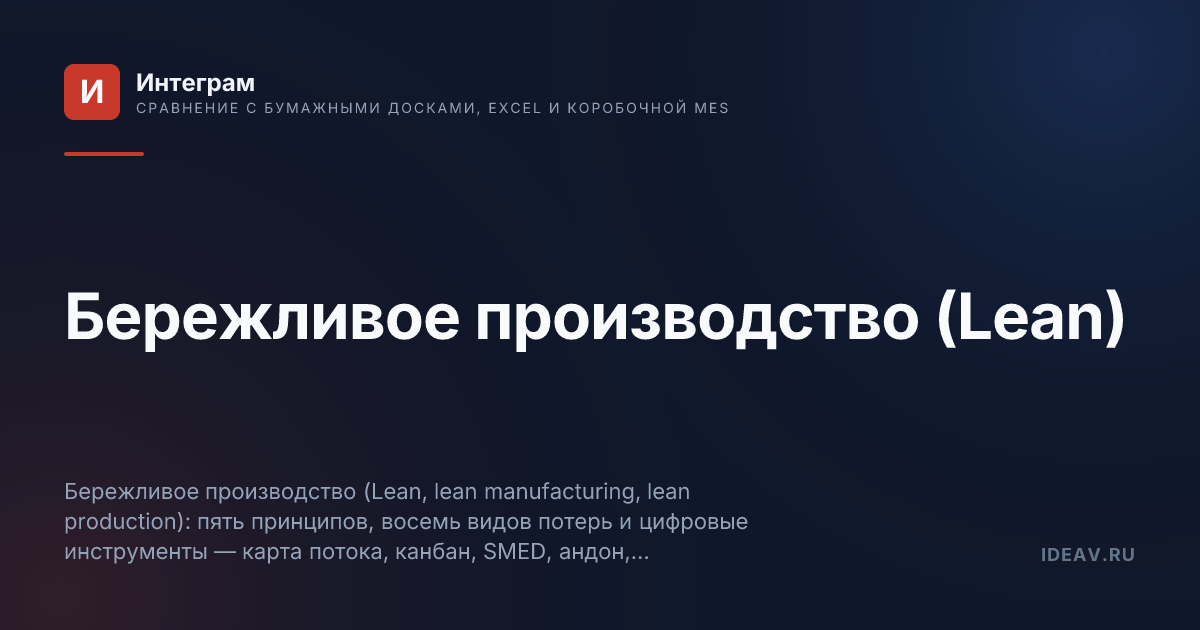
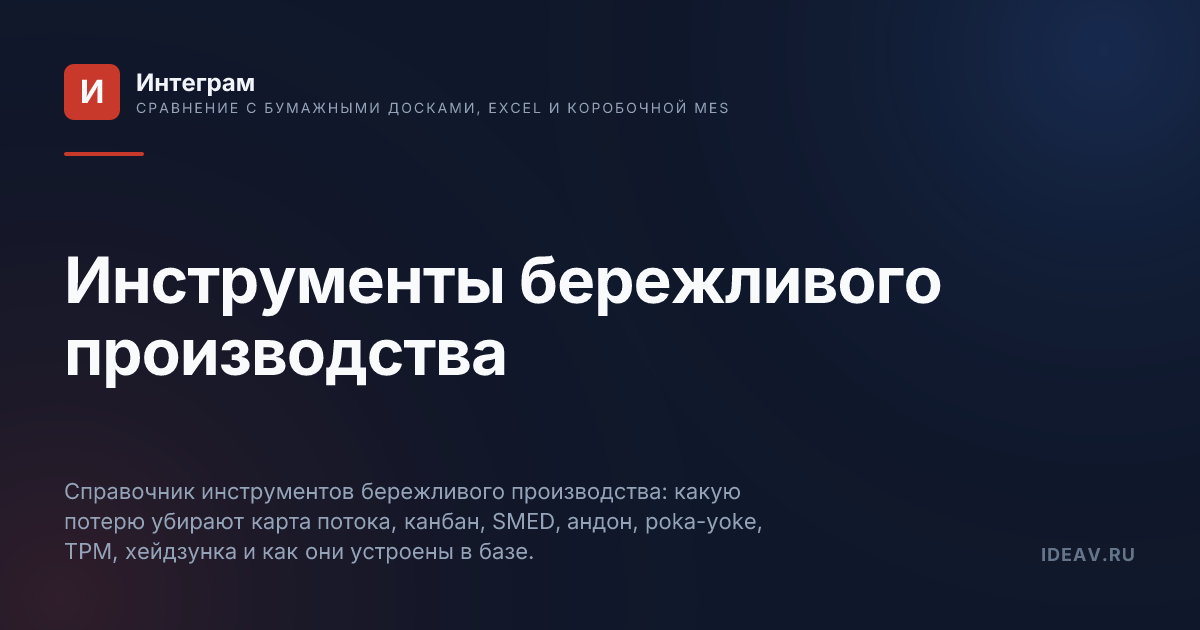
seo: развести пост Lean и КБ №35 — введение и кейсы против справочника (#901)

Changed region(s): [[0.0308, 0.3921, 0.9558, 0.6333], [0.0617, 0.754, 0.6475, 0.9048]]

diff --git a/src/data/knowledgeBase.ts b/src/data/knowledgeBase.ts
@@ -3954,21 +3954,21 @@ export const knowledgeBaseArticles: KnowledgeBaseArticle[] = [
     slug: '35-lean-manufacturing-tools',
     number: '35',
     publishedAt: '2026-11-07',
-    title: 'Бережливое производство: цифровые инструменты Lean под процесс цеха',
-    shortTitle: 'Бережливое производство (Lean)',
-    seoTitle: 'Бережливое производство (Lean): инструменты для цеха — Интеграм',
+    title: 'Инструменты бережливого производства: справочник «потеря → инструмент → как устроен»',
+    shortTitle: 'Инструменты бережливого производства',
+    seoTitle: 'Инструменты бережливого производства: справочник — Интеграм',
     seoDescription:
-      'Инструменты бережливого производства (Lean manufacturing) в цифровом виде: поток ценности, канбан, SMED, андон, защита от ошибок, TPM. Как собрать их под процесс цеха за недели, а не за год, и чем это отличается от Excel и коробочной MES.',
-    ogTitle: 'Бережливое производство: Lean-инструменты, собранные по Lean',
+      'Справочник инструментов бережливого производства: какую потерю убирают карта потока, канбан, SMED, андон, poka-yoke, TPM, хейдзунка и как они устроены в базе.',
+    ogTitle: 'Инструменты бережливого производства: справочник для цеха',
     ogDescription:
       'Пульты у станков, план с нормами переналадки, пробег оснастки и защита от ошибок — в одной базе. Разработка на порядок дешевле, время на планирование — в разы меньше.',
     compare: 'Бумажными досками, Excel и коробочной MES',
     metaDescription:
-      'Бережливое производство (Lean, lean manufacturing, lean production): пять принципов, восемь видов потерь и цифровые инструменты — карта потока, канбан, SMED, андон, poka-yoke, TPM, хейдзунка. Как Интеграм собирает их под процесс цеха без программирования: пульт оператора на планшете, план с нормами переналадки, пробег оснастки, обязательные поля. Разработка по Lean на порядок дешевле, план недели — за три минуты вместо двух-трёх дней. Ограничения подхода.',
+      'Справочник инструментов бережливого производства: какую потерю убирают карта потока, канбан, SMED, андон, poka-yoke, TPM, хейдзунка и как они устроены в базе.',
     metaKeywords:
-      'бережливое производство,lean,lean manufacturing,lean production,инструменты бережливого производства,виды потерь,smed переналадка,канбан производство,андон,poka-yoke,карта потока создания ценности,кайдзен,интеграм',
+      'инструменты бережливого производства,бережливое производство,lean,lean manufacturing,lean production,виды потерь,smed переналадка,канбан производство,андон,poka-yoke,карта потока создания ценности,кайдзен,интеграм',
     summary:
-      'Бережливое производство (Lean) убирает потери в потоке создания ценности: ожидание, перепроизводство, лишние запасы, дефекты. Его инструменты — карта потока, канбан, быстрая переналадка, андон, защита от ошибок — просты на бумаге, но в повседневной работе тонут в Excel или требуют дорогой MES. Статья разбирает, как собрать эти инструменты в одной базе под процесс конкретного цеха, почему мы строим их тоже по Lean — без лишнего кода и маленькими партиями — и где у такого подхода границы.',
+      'Справочник по инструментам бережливого производства: для каждого — какую потерю он убирает и как устроен в базе цеха. Что такое Lean, его принципы и примеры внедрения разобраны в статье блога «Бережливое производство (Lean) простыми словами» (ссылка в источниках). Инструменты Lean — карта потока, канбан, быстрая переналадка, андон, защита от ошибок — просты на бумаге, но в повседневной работе тонут в Excel или требуют дорогой MES. Здесь — как собрать эти инструменты в одной базе под процесс конкретного цеха, почему мы строим их тоже по Lean — без лишнего кода и маленькими партиями — и где у такого подхода границы.',
     context:
       'Бережливое производство выросло из производственной системы Toyota; термин «lean production» ввёл Джон Крафчик в 1988 году, пять принципов (ценность, поток создания ценности, непрерывный поток, вытягивание, совершенство) сформулировали Вумек и Джонс в книге Lean Thinking (1996). В России подход закреплён в ГОСТ Р 56020. Потери (муда) делят на восемь видов: перепроизводство, ожидание, транспортировка, лишняя обработка, запасы, лишние движения, дефекты и неиспользованный потенциал людей. Lean — это культура, а не программа, но инструментам нужны данные о потоке: без них карта потока рисуется по интервью, простой виден после смены, а нормы переналадки живут в голове мастера.',
     scenario: {
@@ -4049,9 +4049,9 @@ export const knowledgeBaseArticles: KnowledgeBaseArticle[] = [
       'Инструменты бережливого производства работают, когда у них есть данные о потоке и когда их можно менять так же быстро, как меняется цех. Excel не даёт первого, коробочная MES и заказная разработка — второго. Собранные в одной базе под процесс цеха, пульты, план с нормами переналадки, защита от ошибок и пробег оснастки дают и то и другое, а сама разработка идёт по Lean — без лишнего кода и маленькими партиями. Начинать стоит с одного потока и одного станка, а дальше улучшать по циклу.',
     faq: [
       {
-        question: 'Что такое бережливое производство простыми словами?',
+        question: 'Какой инструмент Lean убирает какую потерю?',
         answer:
-          'Это подход, при котором компания постоянно ищет и убирает всё, что не добавляет ценности для заказчика: ожидание, лишние запасы, перепроизводство, брак, лишние движения. Он вырос из производственной системы Toyota, по-английски называется Lean или lean manufacturing.',
+          'Карта потока создания ценности — ожидание и лишние шаги; канбан и вытягивание — перепроизводство и запасы; SMED — простой на переналадке; андон — ожидание и дефекты; защита от ошибок (poka-yoke) — дефекты и переделки; TPM — поломки и брак; хейдзунка — перегрузку и простой.',
       },
       {
         question: 'Какие инструменты бережливого производства самые полезные в цифровом виде?',
@@ -4076,9 +4076,9 @@ export const knowledgeBaseArticles: KnowledgeBaseArticle[] = [
     ],
     sources: [
       {
-        title: 'Бережливое производство (Lean): инструменты для цеха, собранные по Lean',
+        title: 'Бережливое производство (Lean) простыми словами: принципы, потери и примеры внедрения в цехе',
         url: 'https://ideav.ru/blog/posts/berezhlivoe-proizvodstvo-lean-instrumenty/',
-        note: 'Статья блога: принципы, виды потерь, кейсы цехов.',
+        note: 'Введение в Lean для тех, кто только начинает: пять принципов, восемь видов потерь и что дало внедрение трём цехам.',
       },
       {
         title: 'Кейс: мастерская резки рулонов перестала терять заказы',

diff --git a/blog-v2/src/content/posts/berezhlivoe-proizvodstvo-lean-instrumenty.md b/blog-v2/src/content/posts/berezhlivoe-proizvodstvo-lean-instrumenty.md
@@ -1,8 +1,8 @@
 ---
-title: 'Бережливое производство (Lean): инструменты и примеры внедрения в цехе'
-seoTitle: 'Бережливое производство (Lean): инструменты для цеха'
-description: 'Бережливое производство (Lean) простыми словами: 5 принципов, 8 видов потерь и инструменты — поток ценности, канбан, SMED, андон, защита от ошибок. Как они выглядят в цифровом виде и что дают цеху на примерах.'
-seoDescription: 'Бережливое производство простыми словами: 5 принципов Lean, 8 видов потерь, канбан, SMED, андон и примеры цифровых инструментов в цехе.'
+title: 'Бережливое производство (Lean) простыми словами: принципы, потери и примеры внедрения в цехе'
+seoTitle: 'Бережливое производство (Lean): что это и примеры в цехе'
+description: 'Бережливое производство (Lean) простыми словами: 5 принципов, 8 видов потерь, почему инструменты Lean тонут в Excel и что дало их внедрение цехам — резке рулонов, производству этикетки и сыроварне.'
+seoDescription: 'Бережливое производство простыми словами: 5 принципов Lean, 8 видов потерь и примеры внедрения в цехах — резка рулонов, этикетка, сыроварня.'
 pubDate: '2026-11-07'
 image: /uploads/berezhlivoe-proizvodstvo-cover.png
 category: Обучение
@@ -19,7 +19,7 @@ cta:
   href: 'https://ideav.ru/excel-to-app.html#excel-form'
   label: 'Загрузить таблицу'
   secondaryHref: 'https://ideav.ru/knowledge-base/35-lean-manufacturing-tools.html'
-  secondaryLabel: 'Lean-инструменты: разбор в базе знаний'
+  secondaryLabel: 'Справочник инструментов Lean'
 faq:
 - q: 'Какие 8 видов потерь выделяет бережливое производство?'
   a: 'Перепроизводство, ожидание, лишняя транспортировка, лишняя обработка, лишние запасы, лишние движения, дефекты и неиспользованный потенциал людей. Первые семь описал Тайити Оно в производственной системе Toyota, восьмую добавили позже.'
@@ -35,7 +35,7 @@ faq:
 
 Бережливое производство (Lean) учит одному: всё, что не добавляет ценности для заказчика, — потери, и их надо убирать. Мы делаем цифровые инструменты для бережливого производства — пульты операторов, планирование станков, учёт переналадок и простоев — и собираем их по тем же правилам Lean: маленькими партиями и без лишнего кода.
 
-Ниже — что такое бережливое производство без лишней теории, какие инструменты Lean реально работают в цеху, почему их так часто хоронят в Excel или в дорогой коробке и как они выглядят, когда собраны под ваш процесс. В конце — ответы на частые вопросы.
+Ниже — что такое бережливое производство без лишней теории, почему его инструменты так часто хоронят в Excel или в дорогой коробке и что дало их внедрение трём цехам. Сами инструменты по одному — какую потерю убирает каждый и как он устроен в базе — разобраны в [справочнике инструментов бережливого производства](https://ideav.ru/knowledge-base/35-lean-manufacturing-tools.html). В конце — ответы на частые вопросы.
 
 ## Что такое бережливое производство
 
@@ -77,20 +77,9 @@ faq:
 
 Отсюда и экономия: там, где в заказной разработке на сущность, отчёт или ролевую модель уходят дни работы программиста, в конструкторе — минуты по нормам выше. Сложный производственный проект у нас укладывается в бюджет до 400 000 ₽ и 4–8 недель; по нашей оценке, заказная разработка того же объёма стоила бы как минимум в пять раз дороже. Подробно о том, как устроены такие проекты, мы писали в статье [«Промышленная автоматизация и живое ТЗ»](https://ideav.ru/blog/posts/promyshlennaya-avtomatizaciya-i-zhivoe-tz/).
 
-## Инструменты бережливого производства, которые мы собираем
+## Инструменты бережливого производства в одной базе
 
-Каждый инструмент Lean в цифровом виде — это таблица, статусы и правила в одной базе. Поэтому они не живут по отдельности, а видят друг друга: пульт оператора пишет в тот же заказ, по которому строится план.
-
-| Инструмент Lean | Какую потерю убирает | Как выглядит в Интеграме |
-|---|---|---|
-| Карта потока создания ценности (VSM) | Ожидание, лишние шаги | Заказ проходит этапы со статусами, время на каждом этапе берётся из журнала, а не из интервью |
-| Вытягивание и канбан | Перепроизводство, запасы | Очередь заданий по станкам; канбан-доска — это вид той же таблицы, карточка одна |
-| SMED, быстрая переналадка | Ожидание, простой | Нормы переналадки в справочнике, планировщик ставит подряд заказы с тем же ножом и валом |
-| Андон и визуальный контроль | Ожидание, дефекты | Пульт на планшете у станка: «Ожидает → Наладка → В работе → Завершён», простой виден мастеру сразу |
-| Защита от ошибок (poka-yoke) | Дефекты, переделки | Без обязательных полей изделие не уходит на следующий этап; план не поставит заказ на неподходящий станок |
-| Всеобщий уход за оборудованием (TPM) | Поломки, брак | Пробег и ресурс оснастки: сколько отработал нож и когда его менять |
-| Выравнивание загрузки (хейдзунка) | Перегрузка и простой | План смены учитывает обед, уборку и конец смены, готовый день можно закрепить |
-| Кайдзен | Застывший процесс | Новое правило или поле добавляется без релиза и сразу работает в пультах и отчётах |
+В цифровом виде каждый инструмент Lean — это таблица, статусы и правила. Карта потока, канбан, быстрая переналадка (SMED), андон, защита от ошибок, уход за оснасткой и выравнивание загрузки живут в одной базе и видят друг друга: пульт оператора пишет в тот же заказ, по которому строится план. Какую потерю убирает каждый инструмент и как он устроен, сведено в таблицу в [справочнике «Инструменты бережливого производства»](https://ideav.ru/knowledge-base/35-lean-manufacturing-tools.html). Ниже — как это выглядит в живых цехах.
 
 ## Как это работает в цехах
 
@@ -122,7 +111,7 @@ faq:
 4. **Поставьте пульт на один станок.** Через две недели у вас будут реальные данные о простоях и переналадках, а не оценки.
 5. **Улучшайте по циклу.** Нашли потерю — поменяли правило или норму, проверили по журналу на следующей неделе.
 
-Подробный разбор инструментов с таблицей «потеря → инструмент → как устроен» и честными ограничениями — в статье базы знаний [«Бережливое производство: цифровые инструменты Lean»](https://ideav.ru/knowledge-base/35-lean-manufacturing-tools.html).
+Когда дойдёт до выбора инструментов под найденную потерю, пригодится [справочник инструментов бережливого производства: потеря → инструмент → как устроен в базе](https://ideav.ru/knowledge-base/35-lean-manufacturing-tools.html).
 
 ## Коротко о главном
 
